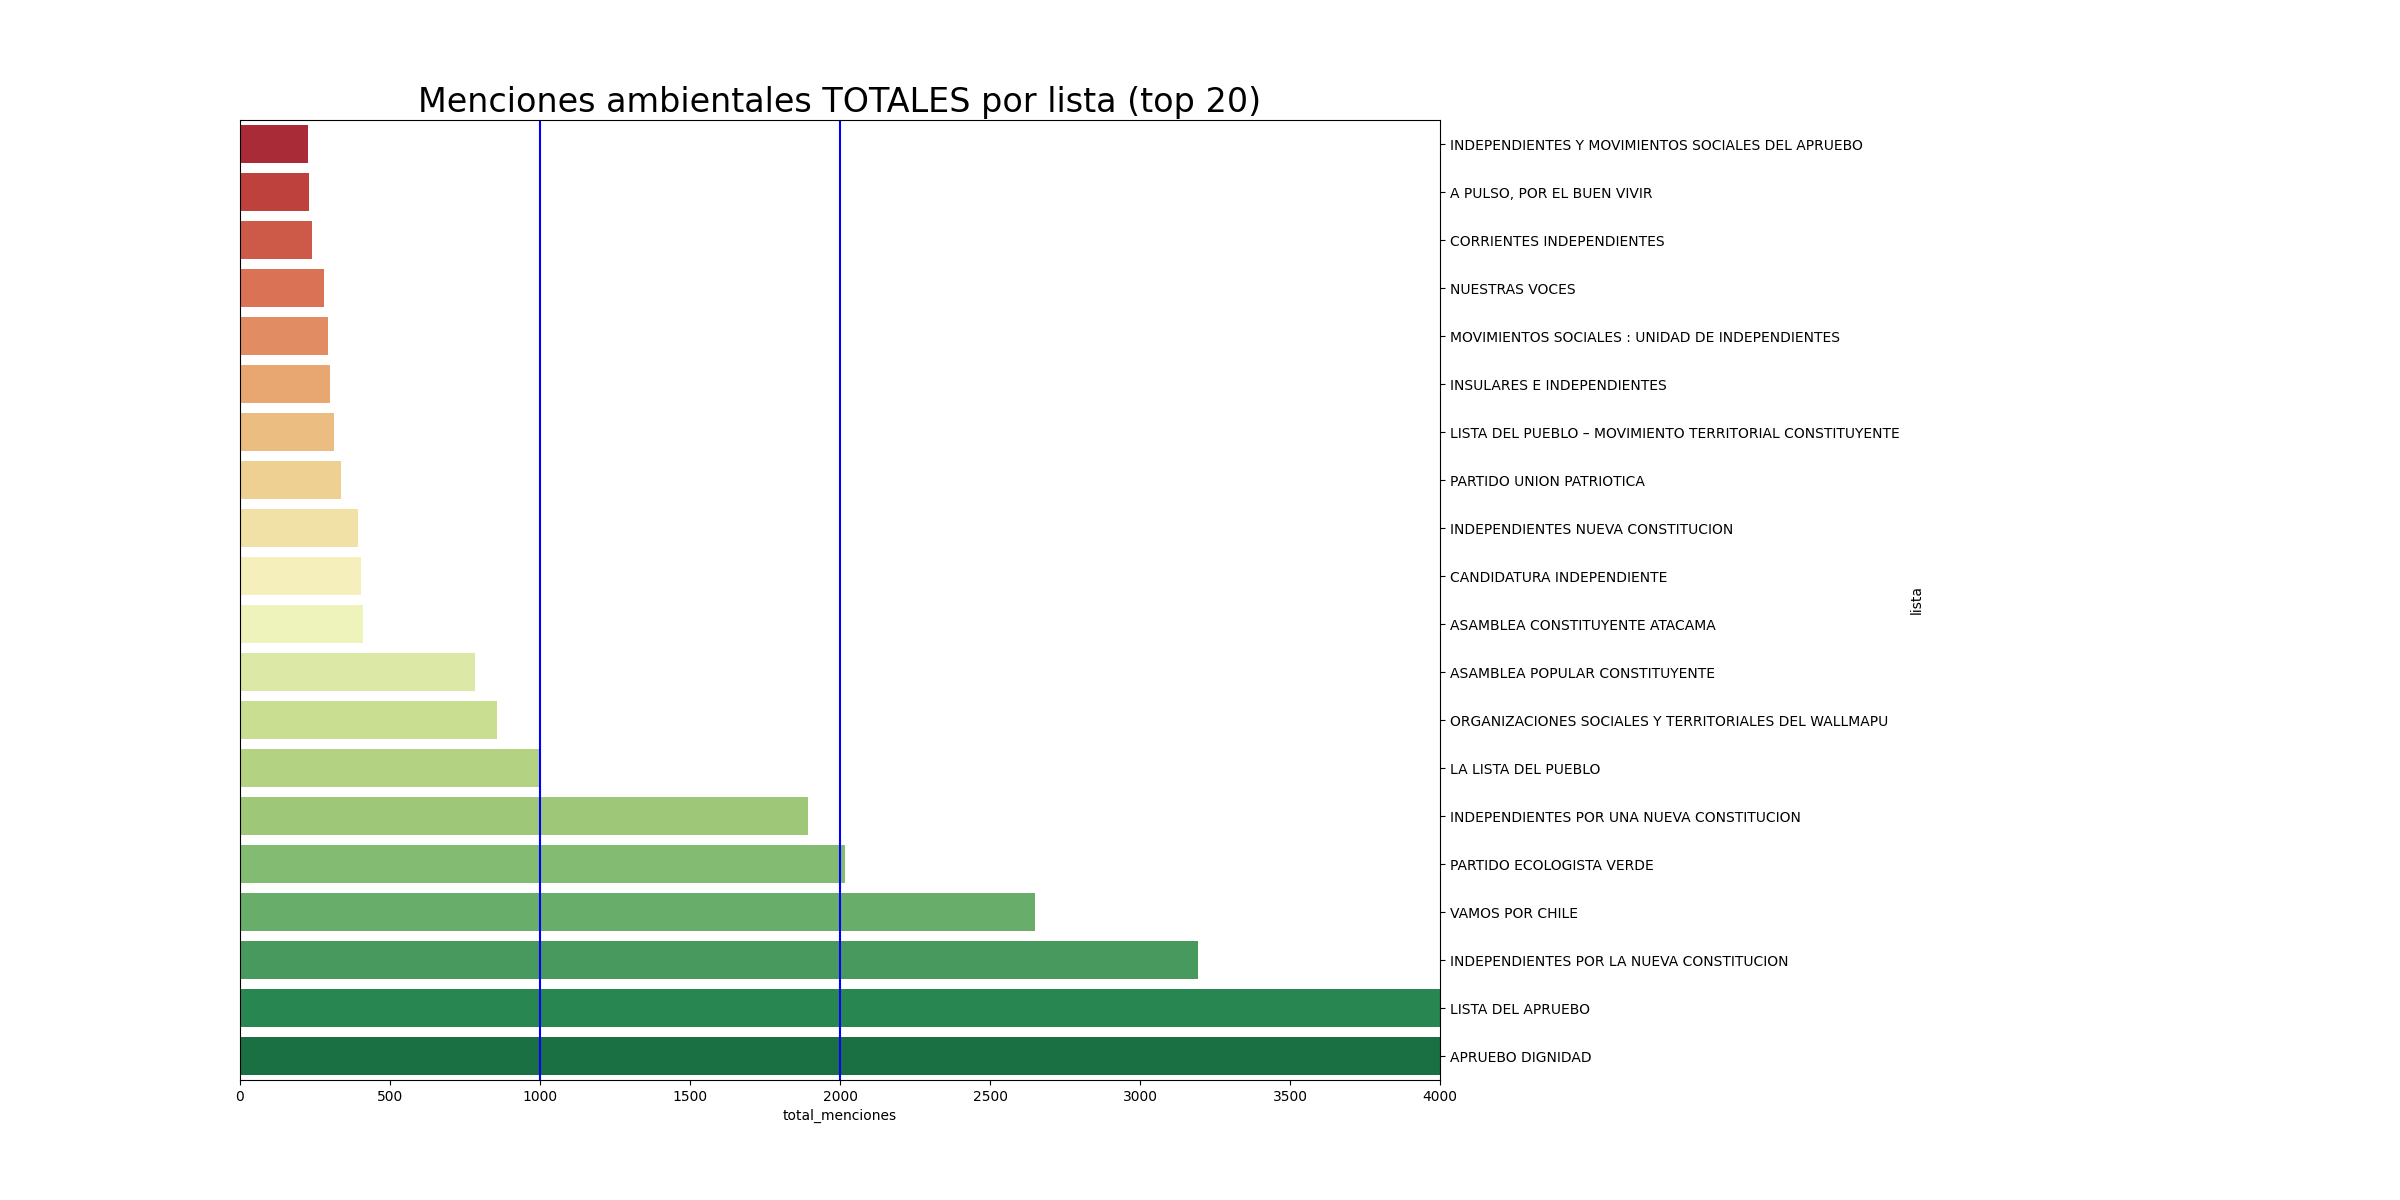
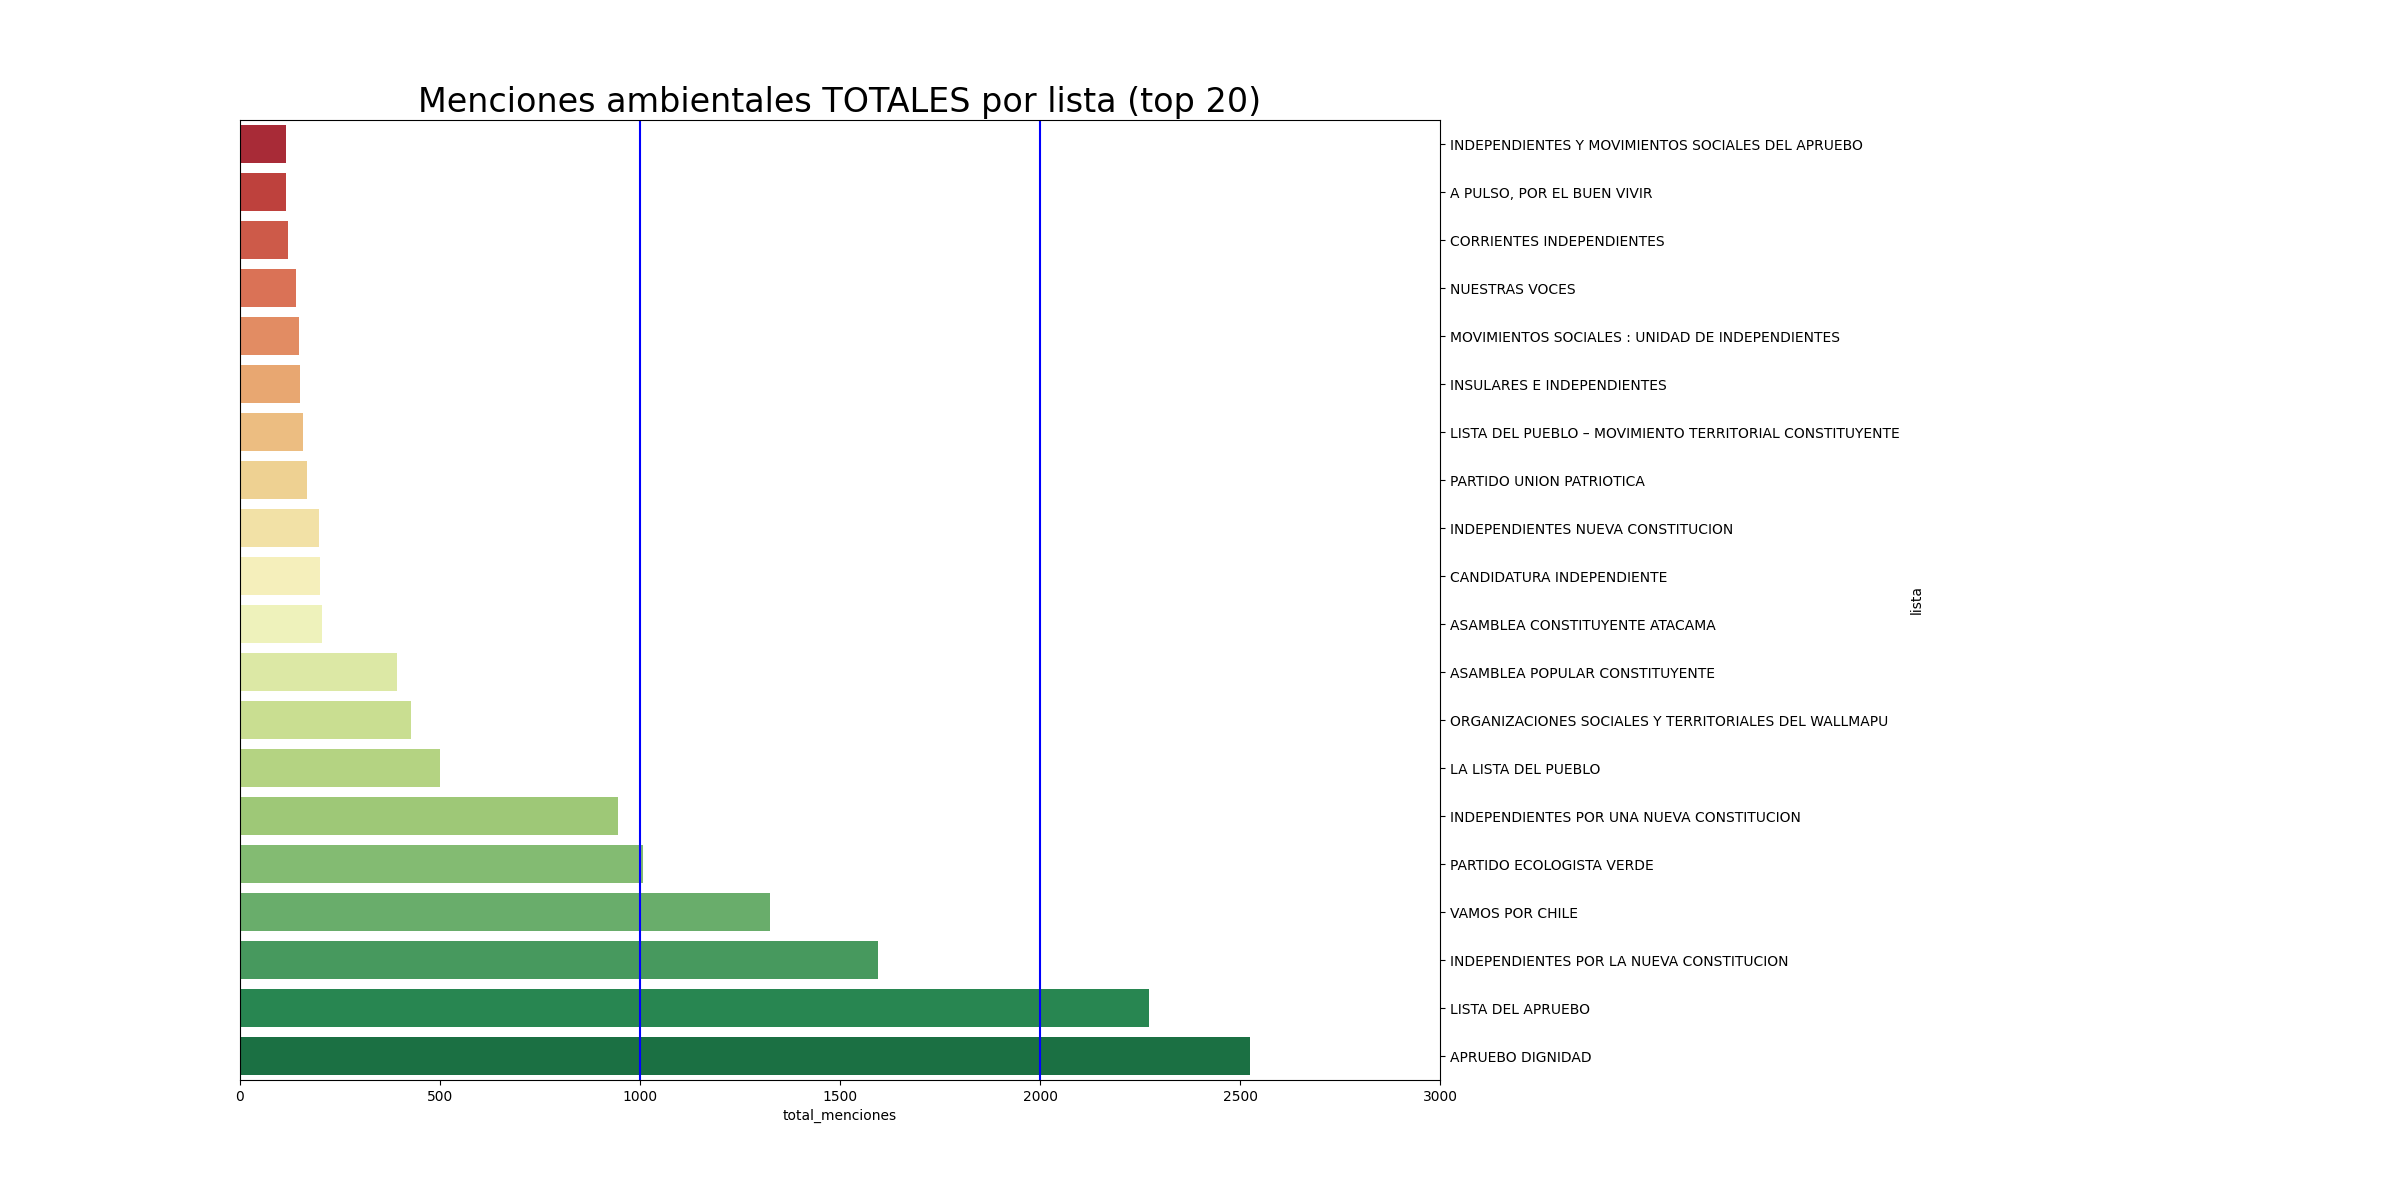
pushing it

Changed region(s): [[0.25, 0.6475, 0.625, 0.925], [0.0938, 0.0925, 0.25, 0.6783], [0.4062, 0.8942, 0.4375, 0.925]]

diff --git a/plotters.py b/plotters.py
@@ -180,6 +180,7 @@ fig, ax = plt.subplots(1, figsize=(24,12))
 lisdf = lisdf.drop(columns=['largo'], axis=1)
 ts = lisdf.sum(axis=1).sort_values().reset_index()
 ts.columns = ['lista','total_menciones']
+ts['total_menciones']=ts.total_menciones/2       # está duplicada
 ts = ts.tail(20)
 sns.barplot(x='total_menciones', data=ts.sort_values('total_menciones'), 
             y='lista', palette='RdYlGn')
@@ -188,7 +189,7 @@ for xx in (1000,2000):
 ax.yaxis.set_label_position("right")
 ax.yaxis.tick_right()   # all this works!
 #plt.margins(x=0.4)
-plt.xlim([0,4000])
+plt.xlim([0,3000])
 plt.title('Menciones ambientales TOTALES por lista (top 20)', size=24)
 plt.subplots_adjust(left=0.1, right=0.6, top=0.9, bottom=0.1)
 plt.savefig('static/barplot_listas.png')
